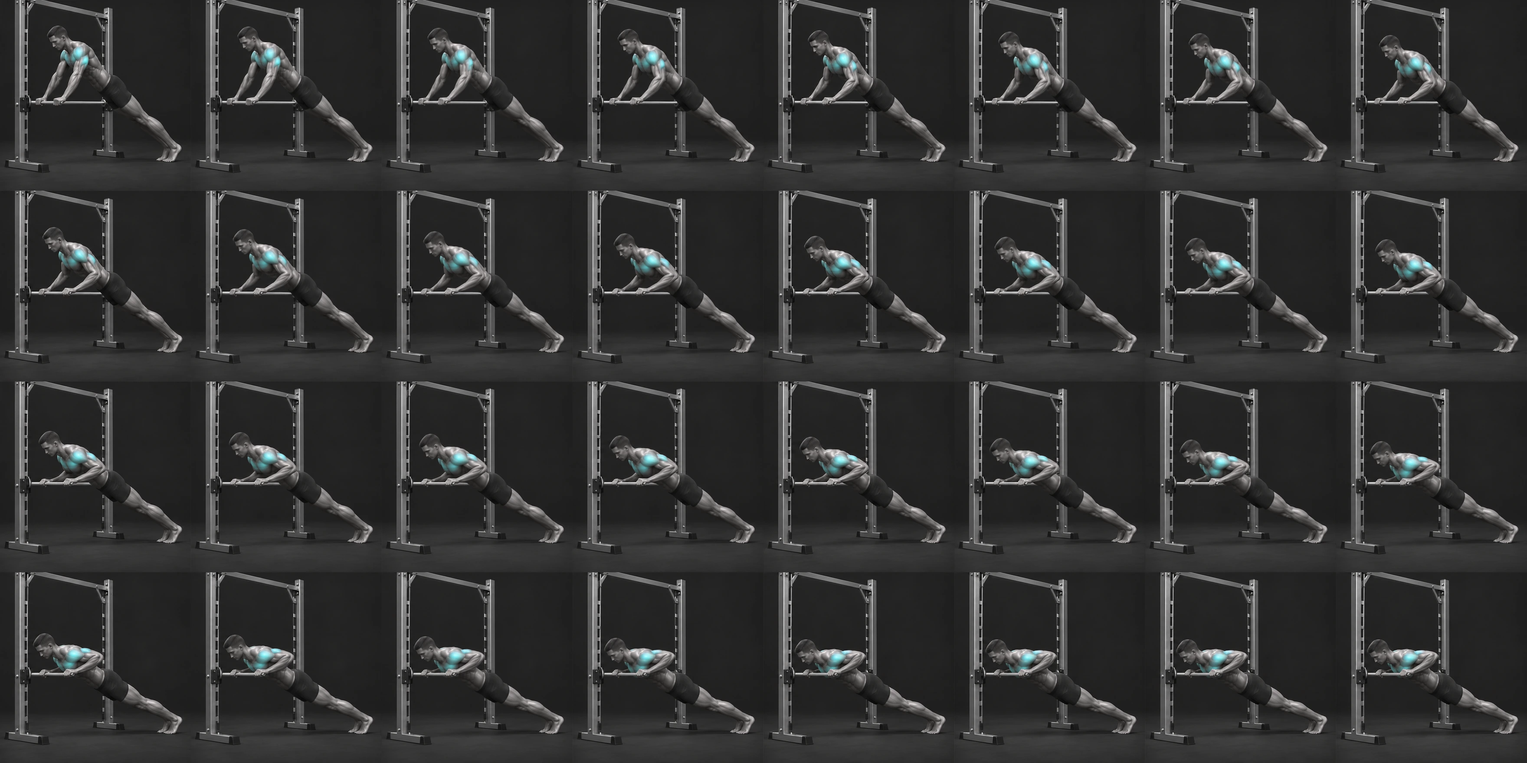
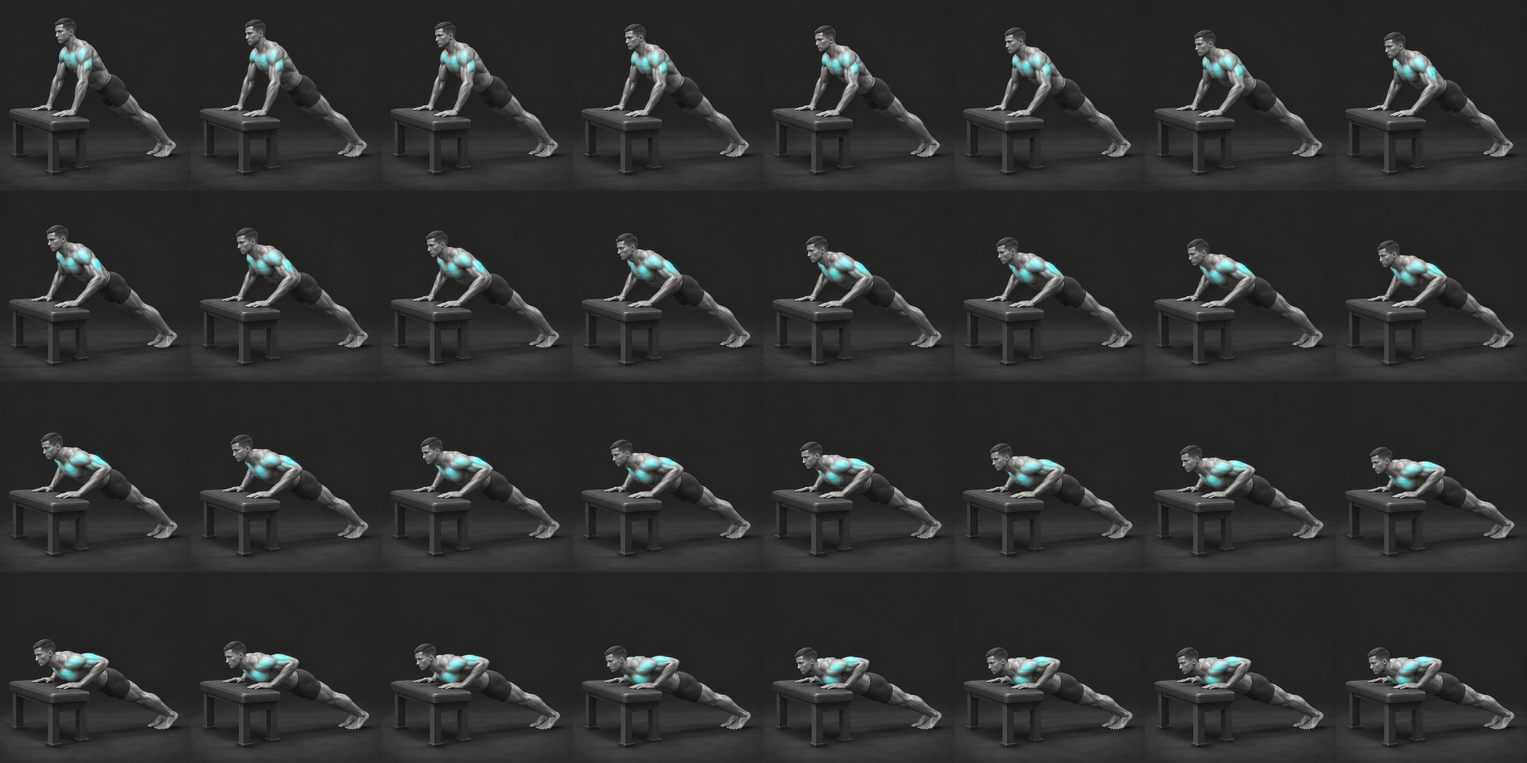
Publish bench incline push-up and exercise order

diff --git a/index.html b/index.html
@@ -1,6 +1,6 @@
 <!doctype html>
 <html lang="ko"><meta charset="utf-8"><meta name="viewport" content="width=device-width,initial-scale=1">
-<title>운동 기구·맨몸 모션 가이드 · 28가지</title>
+<title>운동 모션 가이드 · 28가지</title>
 <style>
 :root{color-scheme:dark;--bg:#11161a;--card:#1b2226;--line:#354248;--ink:#edf5f2;--dim:#a2b3af;--mint:#68e2bd}*{box-sizing:border-box}
 html{scroll-behavior:smooth}body{margin:0;background:var(--bg);color:var(--ink);font:15px/1.5 system-ui,-apple-system,'Malgun Gothic',sans-serif}
@@ -38,27 +38,27 @@ footer{max-width:1286px;margin:auto;padding:15px 18px 45px;color:var(--dim);font
 .routine-day-head{display:flex;align-items:baseline;justify-content:space-between;gap:7px}.routine-day-head strong{font-size:18px}.routine-day-head span{color:var(--mint);font-size:12px}
 .routine-day ol{padding-left:23px;margin:10px 0 0}.routine-day li{padding:2px 0}.routine-day button{background:none;border:0;padding:2px 0;color:var(--ink);font:inherit;text-align:left;text-decoration:underline;text-decoration-color:#57746d;text-underline-offset:3px;cursor:pointer}
 .routine-day button:hover{color:var(--mint)}.routine-foot{font-size:13px;margin:16px 0 0}.card.focus-flash{outline:3px solid var(--mint);outline-offset:3px}
-.card[data-category="맨몸"] .art canvas{aspect-ratio:1/1}
+.card[data-id="ex26"] .art canvas,.card[data-id="ex27"] .art canvas{aspect-ratio:1/1}
 @media(max-width:850px){.routine-grid{grid-template-columns:repeat(2,minmax(0,1fr))}}
-@media(max-width:620px){.toolbar{grid-template-columns:repeat(6,minmax(0,1fr))}.toolbar label{grid-column:1/2}.toolbar select{grid-column:2/7}.routine{padding:15px;margin:12px 0 28px}.routine-grid{grid-template-columns:1fr}.routine-warmup{display:block}.routine-warmup strong{display:block;margin-bottom:4px}}
+@media(max-width:620px){.toolbar{grid-template-columns:repeat(5,minmax(0,1fr))}.toolbar label{grid-column:1/2}.toolbar select{grid-column:2/6}.routine{padding:15px;margin:12px 0 28px}.routine-grid{grid-template-columns:1fr}.routine-warmup{display:block}.routine-warmup strong{display:block;margin-bottom:4px}}
 </style>
-<header><div class="eyebrow">FITNESS 1986 · MOTION GUIDE</div><h1>운동 모션 가이드</h1><p class="summary">어깨, 하체, 가슴, 등, 맨몸 운동 28가지를 한 페이지에서 보세요. 청록색은 해당 동작에서 강조한 부위입니다. 각 카드의 재생과 구간 조절은 따로 작동합니다.</p></header>
-<nav class="toolbar" aria-label="운동 분류"><button data-filter="전체" aria-pressed="true">전체 28</button><button data-filter="어깨" aria-pressed="false">어깨 3</button><button data-filter="하체" aria-pressed="false">하체 10</button><button data-filter="가슴" aria-pressed="false">가슴 5</button><button data-filter="등" aria-pressed="false">등 8</button><button data-filter="맨몸" aria-pressed="false">맨몸 2</button><input class="search" id="search" type="search" placeholder="운동 검색" aria-label="운동 검색"><label for="speed">속도</label><select id="speed"><option value="1">기본 3.5초</option><option value="1.4">빠르게 2.5초</option><option value=".5">느리게 7초</option></select></nav>
-<main id="content"><section id="routine" class="routine" aria-labelledby="routine-title"><div class="routine-heading"><div><span class="eyebrow">BEGINNER · MON—SAT</span><h2 id="routine-title">월~토 초보자 운동 루틴</h2></div><strong class="routine-dose">모든 운동 15회 × 3세트</strong></div><p>매일 5가지 운동을 순서대로 진행합니다. 운동 이름을 누르면 해당 3D 동작으로 이동합니다.</p><div class="routine-warmup"><strong>먼저 몸풀기</strong><span>가볍게 걷거나 자전거를 5~10분 타고, 첫 기구를 가벼운 무게로 1~2세트 연습하세요. 스쿼트 프레스·바이킹프레스·어시스트친업처럼 무겁거나 어려운 운동은 반드시 몸풀기 이후 진행합니다. 몸풀기 세트는 본운동 3세트에 포함하지 않습니다.</span></div><div class="routine-grid"><article class="routine-day"><div class="routine-day-head"><strong>월요일</strong><span>가슴·어깨 A</span></div><ol><li><button type="button" data-exercise="ex26">인클라인 푸시업 (스미스머신)</button></li><li><button type="button" data-exercise="ex01">체스트프레스</button></li><li><button type="button" data-exercise="ex04">펙덱 플라이</button></li><li><button type="button" data-exercise="ex13">버티컬 숄더프레스</button></li><li><button type="button" data-exercise="ex15">리어 델토이드</button></li></ol></article><article class="routine-day"><div class="routine-day-head"><strong>화요일</strong><span>등 A</span></div><ol><li><button type="button" data-exercise="ex05">렛풀다운</button></li><li><button type="button" data-exercise="ex08">시티드 로우</button></li><li><button type="button" data-exercise="ex06">리니어로우</button></li><li><button type="button" data-exercise="ex09">버티컬 풀오버</button></li><li><button type="button" data-exercise="ex15">리어 델토이드</button></li></ol></article><article class="routine-day"><div class="routine-day-head"><strong>수요일</strong><span>하체 A</span></div><ol><li><button type="button" data-exercise="ex27">맨몸 스쿼트</button></li><li><button type="button" data-exercise="ex20">시티드 레그프레스</button></li><li><button type="button" data-exercise="ex25">라잉 레그컬</button></li><li><button type="button" data-exercise="ex17">힙 어브덕션</button></li><li><button type="button" data-exercise="ex18">힙 어덕션</button></li></ol></article><article class="routine-day"><div class="routine-day-head"><strong>목요일</strong><span>가슴·어깨 B</span></div><ol><li><button type="button" data-exercise="ex26">인클라인 푸시업 (스미스머신)</button></li><li><button type="button" data-exercise="ex02">버티컬 체스트프레스</button></li><li><button type="button" data-exercise="ex03">디클라인 체스트프레스</button></li><li><button type="button" data-exercise="ex14">바이킹프레스</button></li><li><button type="button" data-exercise="ex04">펙덱 플라이</button></li></ol></article><article class="routine-day"><div class="routine-day-head"><strong>금요일</strong><span>등 B</span></div><ol><li><button type="button" data-exercise="ex07">버티컬 풀다운</button></li><li><button type="button" data-exercise="ex11">와이드풀다운</button></li><li><button type="button" data-exercise="ex12">티바로우</button></li><li><button type="button" data-exercise="ex10">어시스트친업</button></li><li><button type="button" data-exercise="ex15">리어 델토이드</button></li></ol></article><article class="routine-day"><div class="routine-day-head"><strong>토요일</strong><span>하체 B</span></div><ol><li><button type="button" data-exercise="ex27">맨몸 스쿼트</button></li><li><button type="button" data-exercise="ex23">스쿼트 프레스</button></li><li><button type="button" data-exercise="ex19">레그 익스텐션</button></li><li><button type="button" data-exercise="ex25">라잉 레그컬</button></li><li><button type="button" data-exercise="ex22">몬스터 글루트</button></li></ol></article></div><p class="routine-foot">일요일은 휴식합니다. 세트 사이 1~2분 쉬고, 15회를 바른 자세로 마칠 수 있는 가벼운 강도부터 시작하세요. 처음부터 3세트가 버거우면 1~2세트로 적응한 뒤 늘리세요. 인클라인 푸시업이 어렵다면 스미스 바를 조금 더 높이세요.</p></section></main>
+<header><div class="eyebrow">FITNESS 1986 · MOTION GUIDE</div><h1>운동 모션 가이드</h1><p class="summary">하체, 등, 가슴, 어깨 운동 28가지를 한 페이지에서 보세요. 청록색은 해당 동작에서 강조한 부위입니다. 각 카드의 재생과 구간 조절은 따로 작동합니다.</p></header>
+<nav class="toolbar" aria-label="운동 분류"><button data-filter="전체" aria-pressed="true">전체 28</button><button data-filter="하체" aria-pressed="false">하체 11</button><button data-filter="등" aria-pressed="false">등 8</button><button data-filter="가슴" aria-pressed="false">가슴 6</button><button data-filter="어깨" aria-pressed="false">어깨 3</button><input class="search" id="search" type="search" placeholder="운동 검색" aria-label="운동 검색"><label for="speed">속도</label><select id="speed"><option value="1">기본 3.5초</option><option value="1.4">빠르게 2.5초</option><option value=".5">느리게 7초</option></select></nav>
+<main id="content"><section id="routine" class="routine" aria-labelledby="routine-title"><div class="routine-heading"><div><span class="eyebrow">BEGINNER · MON—SAT</span><h2 id="routine-title">월~토 초보자 운동 루틴</h2></div><strong class="routine-dose">모든 운동 15회 × 3세트</strong></div><p>매일 5가지 운동을 순서대로 진행합니다. 운동 이름을 누르면 해당 3D 동작으로 이동합니다.</p><div class="routine-warmup"><strong>먼저 몸풀기</strong><span>가볍게 걷거나 자전거를 5~10분 타고, 첫 기구를 가벼운 무게로 1~2세트 연습하세요. 스쿼트 프레스·바이킹프레스·어시스트친업처럼 무겁거나 어려운 운동은 반드시 몸풀기 이후 진행합니다. 몸풀기 세트는 본운동 3세트에 포함하지 않습니다.</span></div><div class="routine-grid"><article class="routine-day"><div class="routine-day-head"><strong>월요일</strong><span>가슴·어깨 A</span></div><ol><li><button type="button" data-exercise="ex26">인클라인 푸시업</button></li><li><button type="button" data-exercise="ex01">체스트프레스</button></li><li><button type="button" data-exercise="ex04">펙덱 플라이</button></li><li><button type="button" data-exercise="ex13">버티컬 숄더프레스</button></li><li><button type="button" data-exercise="ex15">리어 델토이드</button></li></ol></article><article class="routine-day"><div class="routine-day-head"><strong>화요일</strong><span>등 A</span></div><ol><li><button type="button" data-exercise="ex05">렛풀다운</button></li><li><button type="button" data-exercise="ex08">시티드 로우</button></li><li><button type="button" data-exercise="ex06">리니어로우</button></li><li><button type="button" data-exercise="ex09">버티컬 풀오버</button></li><li><button type="button" data-exercise="ex15">리어 델토이드</button></li></ol></article><article class="routine-day"><div class="routine-day-head"><strong>수요일</strong><span>하체 A</span></div><ol><li><button type="button" data-exercise="ex27">맨몸 스쿼트</button></li><li><button type="button" data-exercise="ex20">시티드 레그프레스</button></li><li><button type="button" data-exercise="ex25">라잉 레그컬</button></li><li><button type="button" data-exercise="ex17">힙 어브덕션</button></li><li><button type="button" data-exercise="ex18">힙 어덕션</button></li></ol></article><article class="routine-day"><div class="routine-day-head"><strong>목요일</strong><span>가슴·어깨 B</span></div><ol><li><button type="button" data-exercise="ex26">인클라인 푸시업</button></li><li><button type="button" data-exercise="ex02">버티컬 체스트프레스</button></li><li><button type="button" data-exercise="ex03">디클라인 체스트프레스</button></li><li><button type="button" data-exercise="ex14">바이킹프레스</button></li><li><button type="button" data-exercise="ex04">펙덱 플라이</button></li></ol></article><article class="routine-day"><div class="routine-day-head"><strong>금요일</strong><span>등 B</span></div><ol><li><button type="button" data-exercise="ex07">버티컬 풀다운</button></li><li><button type="button" data-exercise="ex11">와이드풀다운</button></li><li><button type="button" data-exercise="ex12">티바로우</button></li><li><button type="button" data-exercise="ex10">어시스트친업</button></li><li><button type="button" data-exercise="ex15">리어 델토이드</button></li></ol></article><article class="routine-day"><div class="routine-day-head"><strong>토요일</strong><span>하체 B</span></div><ol><li><button type="button" data-exercise="ex27">맨몸 스쿼트</button></li><li><button type="button" data-exercise="ex23">스쿼트 프레스</button></li><li><button type="button" data-exercise="ex19">레그 익스텐션</button></li><li><button type="button" data-exercise="ex25">라잉 레그컬</button></li><li><button type="button" data-exercise="ex22">몬스터 글루트</button></li></ol></article></div><p class="routine-foot">일요일은 휴식합니다. 세트 사이 1~2분 쉬고, 15회를 바른 자세로 마칠 수 있는 가벼운 강도부터 시작하세요. 처음부터 3세트가 버거우면 1~2세트로 적응한 뒤 늘리세요. 인클라인 푸시업이 어렵다면 더 높은 안정된 받침대를 사용하세요.</p></section></main>
 <dialog id="detail"><div class="dialog-head"><h2 id="detail-title"></h2><button id="close">닫기 ✕</button></div><canvas id="detail-canvas"></canvas><p id="detail-meta"></p></dialog>
 <footer>영상의 동작을 참고해 만든 시각화입니다. 이미지 장면을 연결한 고정 시점 예시이며 원본 영상은 이 웹페이지에 포함되어 있지 않습니다. 하체 일부와 등 운동 두 건의 표시 이름은 영상을 보고 붙였습니다. 인클라인 푸시업과 맨몸 스쿼트는 별도 촬영 영상 없이 만든 3D 동작 예시입니다.</footer>
-<script>const exercises=[{"id":"ex00","category":"가슴","name":"1.프리벤치프레스","source":"1.프리벤치프레스.mp4","title":"프리벤치프레스","image":"images-v3/ex00.webp","source_name":"1.프리벤치프레스.mp4","note":"","source_url":"#"},{"id":"ex01","category":"가슴","name":"2.체스트프레스","source":"2.체스트프레스.mp4","title":"체스트프레스","image":"images-v3/ex01.webp","source_name":"2.체스트프레스.mp4","note":"","source_url":"#"},{"id":"ex02","category":"가슴","name":"3.버티컬 체스트프레스","source":"3.버티컬 체스트프레스.mp4","title":"버티컬 체스트프레스","image":"images-v3/ex02.webp","source_name":"3.버티컬 체스트프레스.mp4","note":"양쪽 손잡이가 회색 레버에 연결되어 함께 움직임","source_url":"#"},{"id":"ex03","category":"가슴","name":"4.디클라인 체스트프레스","source":"4.디클라인 체스트프레스.mp4","title":"디클라인 체스트프레스","image":"images-v3/ex03.webp","source_name":"4.디클라인 체스트프레스.mp4","note":"","source_url":"#"},{"id":"ex04","category":"가슴","name":"5.팩댓플라이","source":"5.팩댓플라이.mp4","title":"펙덱 플라이","image":"images-v3/ex04.webp","source_name":"5.팩댓플라이.mp4","note":"팔을 넓게 펼친 뒤 가슴 앞까지 모으기","source_url":"#"},{"id":"ex05","category":"등","name":"렛풀다운","source":"렛풀다운.mp4","title":"렛풀다운","image":"images-v3/ex05.webp","source_name":"렛풀다운.mp4","note":"","source_url":"#"},{"id":"ex06","category":"등","name":"리니어로우","source":"리니어로우.mp4","title":"리니어로우","image":"images-v3/ex06.webp","source_name":"리니어로우.mp4","note":"가슴 대신 엉덩이를 뒤쪽 패드에 붙이기","source_url":"#"},{"id":"ex07","category":"등","name":"버티컬 풀다운","source":"버티컬 풀다운.mp4","title":"버티컬 풀다운","image":"images-v3/ex07.webp","source_name":"버티컬 풀다운.mp4","note":"제공 사진의 독립 레버형 기구 · 손잡이를 위에서 가슴 쪽으로 당기기","source_url":"#"},{"id":"ex08","category":"등","name":"버티컬풀오버","source":"버티컬풀오버.mp4","title":"시티드 로우","image":"images-v3/ex08.webp","source_name":"버티컬풀오버.mp4","note":"영상 내용 기준 명칭","source_url":"#"},{"id":"ex09","category":"등","name":"시티드로우","source":"시티드로우.mp4","title":"버티컬 풀오버","image":"images-v3/ex09.webp","source_name":"시티드로우.mp4","note":"기존 풀오버 동작 유지 · 프레임 형태 정리","source_url":"#"},{"id":"ex10","category":"등","name":"어시스트친업","source":"어시스트친업.mp4","title":"어시스트친업","image":"images-v3/ex10.webp","source_name":"어시스트친업.mp4","note":"","source_url":"#"},{"id":"ex11","category":"등","name":"와이드풀다운","source":"와이드풀다운.mp4","title":"와이드풀다운","image":"images-v3/ex11.webp","source_name":"와이드풀다운.mp4","note":"","source_url":"#"},{"id":"ex12","category":"등","name":"티바로우","source":"티바로우.mp4","title":"티바로우","image":"images-v3/ex12.webp","source_name":"티바로우.mp4","note":"","source_url":"#"},{"id":"ex13","category":"어깨","name":"1.버티컬 숄더프레스","source":"1.버티컬 숄더프레스.mp4","title":"버티컬 숄더프레스","image":"images-v3/ex13.webp","source_name":"1.버티컬 숄더프레스.mp4","note":"","source_url":"#"},{"id":"ex14","category":"어깨","name":"2.바이킹프레스","source":"2.바이킹프레스.mp4","title":"바이킹프레스","image":"images-v3/ex14.webp","source_name":"2.바이킹프레스.mp4","note":"","source_url":"#"},{"id":"ex15","category":"어깨","name":"3.리얼델토이드","source":"3.리얼델토이드.mp4","title":"리어 델토이드","image":"images-v3/ex15.webp","source_name":"3.리얼델토이드.mp4","note":"양손이 몸 앞에서 거의 닿도록 모았다가 양옆으로 벌리기 · 손등은 위로","source_url":"#"},{"id":"ex16","category":"하체","name":"KakaoTalk_20261021_160441697","source":"KakaoTalk_20261021_160441697.mp4","title":"스탠딩 아웃타이","image":"images-v3/ex16.webp","source_name":"KakaoTalk_20261021_160441697.mp4","note":"남성 모델 · 기존 몸통과 손잡이 · 무릎 바깥 패드가 다리와 함께 이동","source_url":"#"},{"id":"ex17","category":"하체","name":"KakaoTalk_20261021_160455563","source":"KakaoTalk_20261021_160455563.mp4","title":"힙 어브덕션","image":"images-v3/ex17.webp","source_name":"KakaoTalk_20261021_160455563.mp4","note":"영상 내용 기준 명칭","source_url":"#"},{"id":"ex18","category":"하체","name":"KakaoTalk_20261021_160501637","source":"KakaoTalk_20261021_160501637.mp4","title":"힙 어덕션","image":"images-v3/ex18.webp","source_name":"KakaoTalk_20261021_160501637.mp4","note":"영상 내용 기준 명칭","source_url":"#"},{"id":"ex19","category":"하체","name":"KakaoTalk_20261021_160507808","source":"KakaoTalk_20261021_160507808.mp4","title":"레그 익스텐션","image":"images-v3/ex19.webp","source_name":"KakaoTalk_20261021_160507808.mp4","note":"영상 내용 기준 명칭","source_url":"#"},{"id":"ex20","category":"하체","name":"KakaoTalk_20261021_160512107","source":"KakaoTalk_20261021_160512107.mp4","title":"시티드 레그프레스","image":"images-v3/ex20.webp","source_name":"KakaoTalk_20261021_160512107.mp4","note":"영상 내용 기준 명칭","source_url":"#"},{"id":"ex21","category":"하체","name":"KakaoTalk_20261021_160516888","source":"KakaoTalk_20261021_160516888.mp4","title":"핵 스쿼트","image":"images-v3/ex21.webp","source_name":"KakaoTalk_20261021_160516888.mp4","note":"영상 내용 기준 명칭","source_url":"#"},{"id":"ex22","category":"하체","name":"KakaoTalk_20261021_160523977","source":"KakaoTalk_20261021_160523977.mp4","title":"몬스터 글루트","image":"images-v3/ex22.webp","source_name":"KakaoTalk_20261021_160523977.mp4","note":"몬스터 글루트 · 높은 위치에서 바깥 아래로 다리 벌리기","source_url":"#"},{"id":"ex23","category":"하체","name":"KakaoTalk_20261021_160539336","source":"KakaoTalk_20261021_160539336.mp4","title":"스쿼트 프레스","image":"images-v3/ex23.webp","source_name":"KakaoTalk_20261021_160539336.mp4","note":"스쿼트 프레스 · 발판을 대각선 위로 밀기","source_url":"#"},{"id":"ex24","category":"하체","name":"KakaoTalk_20261021_160548020","source":"KakaoTalk_20261021_160548020.mp4","title":"45도 레그프레스","image":"images-v3/ex24.webp","source_name":"KakaoTalk_20261021_160548020.mp4","note":"영상 내용 기준 명칭","source_url":"#"},{"id":"ex25","category":"하체","name":"라잉 레그컬","source":"예시 동작","title":"라잉 레그컬","image":"images-v3/ex25.webp","source_name":"예시 동작","source_url":"#","note":"엎드려 누워 발목 패드를 엉덩이 쪽으로 들어 올리기 · 원본 영상 없음"},{"id":"ex26","category":"맨몸","name":"인클라인 푸시업","source":"3D 동작 예시","title":"인클라인 푸시업 (스미스머신)","image":"images-v3/ex26.webp","source_name":"3D 동작 예시","source_url":"#","note":"스미스 바를 고정하고 몸을 바닥과 약 45도로 기울이기 · 손과 발을 붙인 채 가슴을 바 쪽으로 내리기"},{"id":"ex27","category":"맨몸","name":"맨몸 스쿼트","source":"3D 동작 예시","title":"맨몸 스쿼트","image":"images-v3/ex27.webp","source_name":"3D 동작 예시","source_url":"#","note":"발바닥을 붙인 채 엉덩이를 뒤로 내리고 무릎은 발끝 방향으로"}];</script>
+<script>const exercises=[{"id":"ex00","category":"가슴","name":"1.프리벤치프레스","source":"1.프리벤치프레스.mp4","title":"프리벤치프레스","image":"images-v3/ex00.webp","source_name":"1.프리벤치프레스.mp4","note":"","source_url":"#"},{"id":"ex01","category":"가슴","name":"2.체스트프레스","source":"2.체스트프레스.mp4","title":"체스트프레스","image":"images-v3/ex01.webp","source_name":"2.체스트프레스.mp4","note":"","source_url":"#"},{"id":"ex02","category":"가슴","name":"3.버티컬 체스트프레스","source":"3.버티컬 체스트프레스.mp4","title":"버티컬 체스트프레스","image":"images-v3/ex02.webp","source_name":"3.버티컬 체스트프레스.mp4","note":"양쪽 손잡이가 회색 레버에 연결되어 함께 움직임","source_url":"#"},{"id":"ex03","category":"가슴","name":"4.디클라인 체스트프레스","source":"4.디클라인 체스트프레스.mp4","title":"디클라인 체스트프레스","image":"images-v3/ex03.webp","source_name":"4.디클라인 체스트프레스.mp4","note":"","source_url":"#"},{"id":"ex04","category":"가슴","name":"5.팩댓플라이","source":"5.팩댓플라이.mp4","title":"펙덱 플라이","image":"images-v3/ex04.webp","source_name":"5.팩댓플라이.mp4","note":"팔을 넓게 펼친 뒤 가슴 앞까지 모으기","source_url":"#"},{"id":"ex05","category":"등","name":"렛풀다운","source":"렛풀다운.mp4","title":"렛풀다운","image":"images-v3/ex05.webp","source_name":"렛풀다운.mp4","note":"","source_url":"#"},{"id":"ex06","category":"등","name":"리니어로우","source":"리니어로우.mp4","title":"리니어로우","image":"images-v3/ex06.webp","source_name":"리니어로우.mp4","note":"가슴 대신 엉덩이를 뒤쪽 패드에 붙이기","source_url":"#"},{"id":"ex07","category":"등","name":"버티컬 풀다운","source":"버티컬 풀다운.mp4","title":"버티컬 풀다운","image":"images-v3/ex07.webp","source_name":"버티컬 풀다운.mp4","note":"제공 사진의 독립 레버형 기구 · 손잡이를 위에서 가슴 쪽으로 당기기","source_url":"#"},{"id":"ex08","category":"등","name":"버티컬풀오버","source":"버티컬풀오버.mp4","title":"시티드 로우","image":"images-v3/ex08.webp","source_name":"버티컬풀오버.mp4","note":"영상 내용 기준 명칭","source_url":"#"},{"id":"ex09","category":"등","name":"시티드로우","source":"시티드로우.mp4","title":"버티컬 풀오버","image":"images-v3/ex09.webp","source_name":"시티드로우.mp4","note":"기존 풀오버 동작 유지 · 프레임 형태 정리","source_url":"#"},{"id":"ex10","category":"등","name":"어시스트친업","source":"어시스트친업.mp4","title":"어시스트친업","image":"images-v3/ex10.webp","source_name":"어시스트친업.mp4","note":"","source_url":"#"},{"id":"ex11","category":"등","name":"와이드풀다운","source":"와이드풀다운.mp4","title":"와이드풀다운","image":"images-v3/ex11.webp","source_name":"와이드풀다운.mp4","note":"","source_url":"#"},{"id":"ex12","category":"등","name":"티바로우","source":"티바로우.mp4","title":"티바로우","image":"images-v3/ex12.webp","source_name":"티바로우.mp4","note":"","source_url":"#"},{"id":"ex13","category":"어깨","name":"1.버티컬 숄더프레스","source":"1.버티컬 숄더프레스.mp4","title":"버티컬 숄더프레스","image":"images-v3/ex13.webp","source_name":"1.버티컬 숄더프레스.mp4","note":"","source_url":"#"},{"id":"ex14","category":"어깨","name":"2.바이킹프레스","source":"2.바이킹프레스.mp4","title":"바이킹프레스","image":"images-v3/ex14.webp","source_name":"2.바이킹프레스.mp4","note":"","source_url":"#"},{"id":"ex15","category":"어깨","name":"3.리얼델토이드","source":"3.리얼델토이드.mp4","title":"리어 델토이드","image":"images-v3/ex15.webp","source_name":"3.리얼델토이드.mp4","note":"양손이 몸 앞에서 거의 닿도록 모았다가 양옆으로 벌리기 · 손등은 위로","source_url":"#"},{"id":"ex16","category":"하체","name":"KakaoTalk_20261021_160441697","source":"KakaoTalk_20261021_160441697.mp4","title":"스탠딩 아웃타이","image":"images-v3/ex16.webp","source_name":"KakaoTalk_20261021_160441697.mp4","note":"남성 모델 · 기존 몸통과 손잡이 · 무릎 바깥 패드가 다리와 함께 이동","source_url":"#"},{"id":"ex17","category":"하체","name":"KakaoTalk_20261021_160455563","source":"KakaoTalk_20261021_160455563.mp4","title":"힙 어브덕션","image":"images-v3/ex17.webp","source_name":"KakaoTalk_20261021_160455563.mp4","note":"영상 내용 기준 명칭","source_url":"#"},{"id":"ex18","category":"하체","name":"KakaoTalk_20261021_160501637","source":"KakaoTalk_20261021_160501637.mp4","title":"힙 어덕션","image":"images-v3/ex18.webp","source_name":"KakaoTalk_20261021_160501637.mp4","note":"영상 내용 기준 명칭","source_url":"#"},{"id":"ex19","category":"하체","name":"KakaoTalk_20261021_160507808","source":"KakaoTalk_20261021_160507808.mp4","title":"레그 익스텐션","image":"images-v3/ex19.webp","source_name":"KakaoTalk_20261021_160507808.mp4","note":"영상 내용 기준 명칭","source_url":"#"},{"id":"ex20","category":"하체","name":"KakaoTalk_20261021_160512107","source":"KakaoTalk_20261021_160512107.mp4","title":"시티드 레그프레스","image":"images-v3/ex20.webp","source_name":"KakaoTalk_20261021_160512107.mp4","note":"영상 내용 기준 명칭","source_url":"#"},{"id":"ex21","category":"하체","name":"KakaoTalk_20261021_160516888","source":"KakaoTalk_20261021_160516888.mp4","title":"핵 스쿼트","image":"images-v3/ex21.webp","source_name":"KakaoTalk_20261021_160516888.mp4","note":"영상 내용 기준 명칭","source_url":"#"},{"id":"ex22","category":"하체","name":"KakaoTalk_20261021_160523977","source":"KakaoTalk_20261021_160523977.mp4","title":"몬스터 글루트","image":"images-v3/ex22.webp","source_name":"KakaoTalk_20261021_160523977.mp4","note":"몬스터 글루트 · 높은 위치에서 바깥 아래로 다리 벌리기","source_url":"#"},{"id":"ex23","category":"하체","name":"KakaoTalk_20261021_160539336","source":"KakaoTalk_20261021_160539336.mp4","title":"스쿼트 프레스","image":"images-v3/ex23.webp","source_name":"KakaoTalk_20261021_160539336.mp4","note":"스쿼트 프레스 · 발판을 대각선 위로 밀기","source_url":"#"},{"id":"ex24","category":"하체","name":"KakaoTalk_20261021_160548020","source":"KakaoTalk_20261021_160548020.mp4","title":"45도 레그프레스","image":"images-v3/ex24.webp","source_name":"KakaoTalk_20261021_160548020.mp4","note":"영상 내용 기준 명칭","source_url":"#"},{"id":"ex25","category":"하체","name":"라잉 레그컬","source":"예시 동작","title":"라잉 레그컬","image":"images-v3/ex25.webp","source_name":"예시 동작","source_url":"#","note":"엎드려 누워 발목 패드를 엉덩이 쪽으로 들어 올리기 · 원본 영상 없음"},{"id":"ex26","category":"가슴","name":"인클라인 푸시업","source":"3D 동작 예시","title":"인클라인 푸시업","image":"images-v3/ex26.webp","source_name":"3D 동작 예시","source_url":"#","note":"고정 벤치에 손을 대고 몸을 바닥과 약 45도로 기울이기 · 가슴을 벤치 쪽으로 내리기"},{"id":"ex27","category":"하체","name":"맨몸 스쿼트","source":"3D 동작 예시","title":"맨몸 스쿼트","image":"images-v3/ex27.webp","source_name":"3D 동작 예시","source_url":"#","note":"발바닥을 붙인 채 엉덩이를 뒤로 내리고 무릎은 발끝 방향으로"}];</script>
 <script>
 const content=document.querySelector('#content'),search=document.querySelector('#search'),speed=document.querySelector('#speed');
 const state=new Map(),shown=new Set(),sections=new Map(),modal=document.querySelector('#detail');
 let filter='전체',last=0,modalId=null;
-const categories=['어깨','하체','가슴','등','맨몸'];
+const categories=['하체','등','가슴','어깨'];
 function frameIndex(position,id){const u=position<.5?position*2:(1-position)*2;const t=u*u*(3-2*u);const last=31;return Math.max(0,Math.min(last,Math.round(t*last)))}
 function draw(item,canvas,index){
  const image=state.get(item.id)?.image;
  if(!image?.complete||!image.naturalWidth)return;
  const cols=8,rows=4;const w=image.naturalWidth/cols,h=image.naturalHeight/rows;
- const targetWidth=480,targetHeight=item.category==='맨몸'?480:720;
+ const targetWidth=480,targetHeight=(item.id==='ex26'||item.id==='ex27')?480:720;
  if(canvas.width!==targetWidth||canvas.height!==targetHeight){canvas.width=targetWidth;canvas.height=targetHeight}
  const context=canvas.getContext('2d');
  context.fillStyle='#191d21';context.fillRect(0,0,targetWidth,targetHeight);
@@ -76,12 +76,12 @@ function draw(item,canvas,index){
  }
 
 }
-function label(position,item){if(item.category==='맨몸')return position<.04?'시작 자세':position<.5?'천천히 내려가기':'천천히 올라오기';return position<.04?'시작 자세':position<.48?'위로 밀기 / 당기기':position<.54?'최고점':'천천히 돌아오기'}
+function label(position,item){if(item.id==='ex26'||item.id==='ex27')return position<.04?'시작 자세':position<.5?'천천히 내려가기':'천천히 올라오기';return position<.04?'시작 자세':position<.48?'위로 밀기 / 당기기':position<.54?'최고점':'천천히 돌아오기'}
 function card(item){
  const article=document.createElement('article');article.className='card';article.dataset.id=item.id;article.dataset.category=item.category;article.id=item.id;
  article.innerHTML='<div class="art"><canvas aria-label="'+item.title+' 동작 장면"></canvas><span class="badge">'+item.category+'</span></div><div class="info"><h3></h3><div class="meta"></div><div class="actions"><button class="primary" type="button">일시정지</button><button class="enlarge" type="button">크게 보기</button><a target="_blank" rel="noopener">원본 영상</a></div><input type="range" min="0" max="1000" value="0" aria-label="'+item.title+' 동작 구간"><div class="status"><span>시작 자세</span><span>0%</span></div></div>';
  article.querySelector('h3').textContent=item.title;
- article.querySelector('.meta').textContent=item.category==='맨몸'?item.note+' · 3D 동작 예시':item.note?item.note+' · 원본 '+item.source_name:'원본 '+item.source_name;
+ article.querySelector('.meta').textContent=(item.id==='ex26'||item.id==='ex27')?item.note+' · 3D 동작 예시':item.note?item.note+' · 원본 '+item.source_name:'원본 '+item.source_name;
  article.querySelector('a').href=item.source_url||'#';if(!item.source_url)article.querySelector('a').style.display='none';
  const control=article.querySelector('.primary'),range=article.querySelector('input');
  const record={item,article,canvas:article.querySelector('canvas'),image:new Image(),position:0,playing:true,loaded:false,lastFrame:-1,lastModalFrame:-1,control,range,status:article.querySelector('.status')};
@@ -90,7 +90,7 @@ function card(item){
  record.image.onerror=()=>{record.status.firstElementChild.textContent='동작 이미지 누락'};
  control.onclick=()=>{record.playing=!record.playing;control.textContent=record.playing?'일시정지':'재생'};
  range.oninput=()=>{record.playing=false;control.textContent='재생';record.position=Number(range.value)/1000;update(record)};
- article.querySelector('.enlarge').onclick=()=>{modalId=item.id;document.querySelector('#detail-title').textContent=item.title;document.querySelector('#detail-meta').textContent=item.category==='맨몸'?item.note+' · 3D 동작 예시':'원본 '+item.source_name;draw(item,document.querySelector('#detail-canvas'),frameIndex(record.position,record.item.id));modal.showModal()};
+ article.querySelector('.enlarge').onclick=()=>{modalId=item.id;document.querySelector('#detail-title').textContent=item.title;document.querySelector('#detail-meta').textContent=(item.id==='ex26'||item.id==='ex27')?item.note+' · 3D 동작 예시':'원본 '+item.source_name;draw(item,document.querySelector('#detail-canvas'),frameIndex(record.position,record.item.id));modal.showModal()};
  observer.observe(article);return article;
 }
 const observer=new IntersectionObserver(entries=>entries.forEach(entry=>{const id=entry.target.dataset.id;if(entry.isIntersecting){shown.add(id);const record=state.get(id);if(record&&!record.image.src)record.image.src=record.item.image}else shown.delete(id)}),{rootMargin:'100px'});
